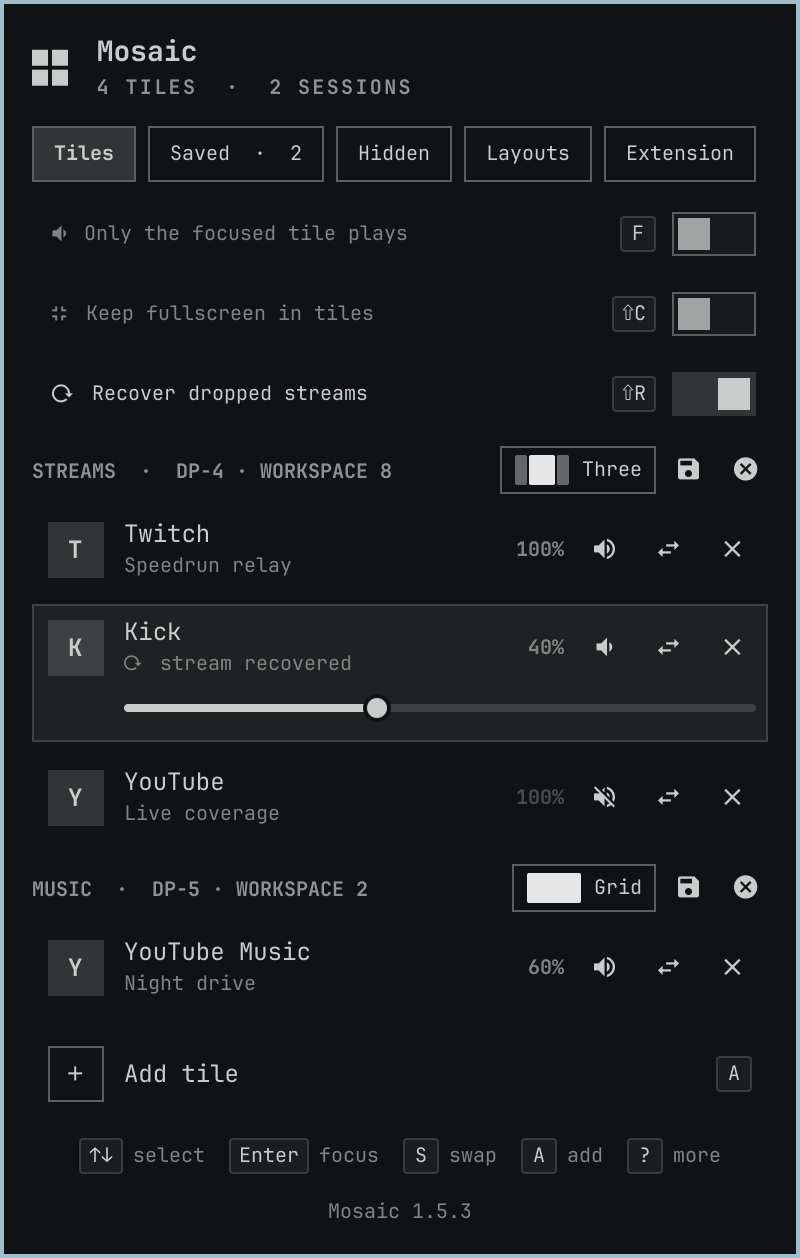
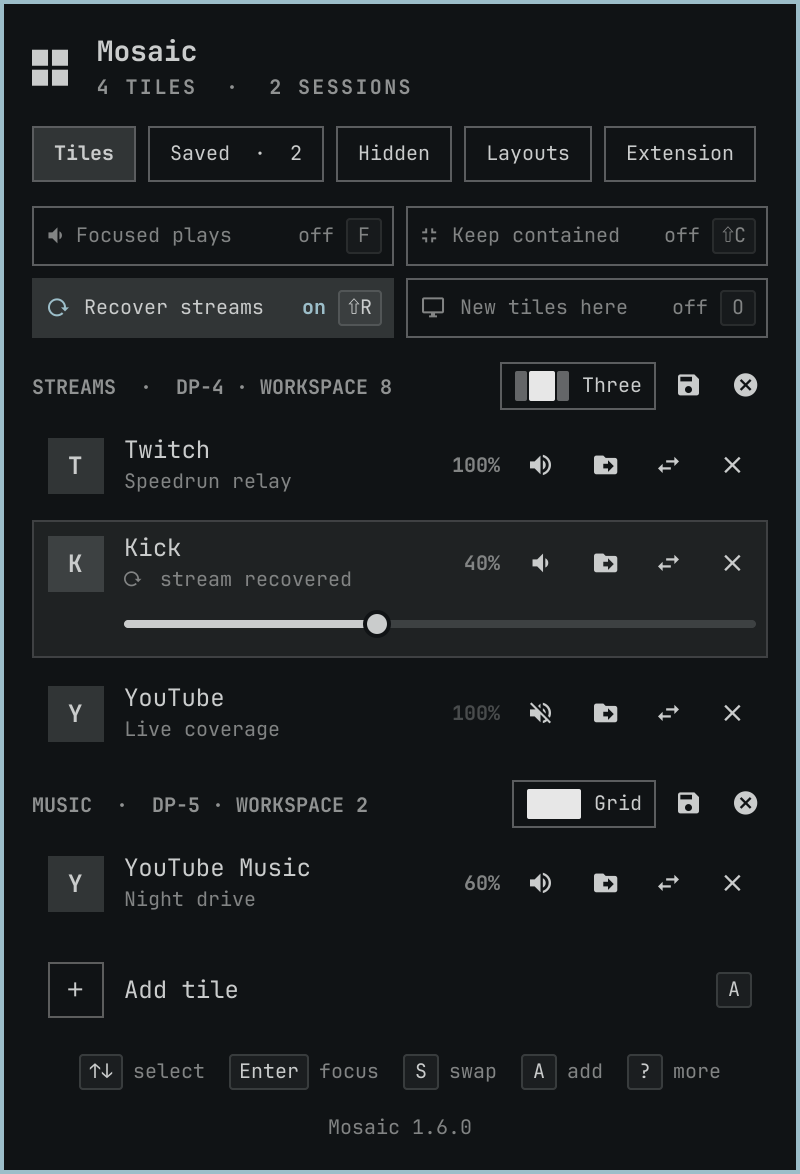
Release 1.6.0
New tiles can open on the focused workspace, tiles move between
sessions without reopening, and the panel's switches are a compact
labelled grid. The hero shows the new panel and version.

diff --git a/README.md b/README.md
@@ -1,6 +1,6 @@
 # <img src="icon.svg" alt="" width="32" height="32" align="top"> Mosaic
 
-![Mosaic: every stream in its place. On the right, a monitor shows workspace 8 in a three-zone layout: a wide Twitch tile in the middle whose video is fullscreen inside the tile, with Kick and a muted YouTube tile letterboxed beside it. In front, two offscreen renders of the Mosaic panel with sample tiles: the Tiles tab with two sessions, per-tile volume, a recovered stream and the audio, containment and recovery switches, and the Layouts tab with a layout per workspace and a custom "Three" layout](preview.png)
+![Mosaic: every stream in its place. On the right, a monitor shows workspace 8 in a three-zone layout: a wide Twitch tile in the middle whose video is fullscreen inside the tile, with Kick and a muted YouTube tile letterboxed beside it. In front, two offscreen renders of the Mosaic panel with sample tiles: the Tiles tab with two sessions, per-tile volume, a recovered stream and the audio, containment, recovery and "new tiles here" switches, and the Layouts tab with a layout per workspace and a custom "Three" layout](preview.png)
 
 **Twitch, Kick, YouTube and any other web app, tiled as a monitor-aware
 mosaic on Hyprland, where a video's fullscreen stays inside its tile.**
@@ -20,7 +20,8 @@ type any address.
 - **Fullscreen in its tile**: a video's fullscreen fills its tile, not the
   monitor, and Mosaic can put it back when something takes it away.
 - **A keyboard-first panel** in the Omarchy bar: sessions and their tiles;
-  add, focus, swap, reload and remove tiles; in your theme's colours.
+  add, focus, swap, reload and remove tiles, move them between sessions,
+  and open new ones on the workspace you're on; in your theme's colours.
 - **Swap a tile in place** with a card over the tile (`Super+Shift+S`):
   another web app or another address, same slot.
 - **Layouts per workspace**: Grid, Stack, Main + small, 16:9 fit, or your

diff --git a/CHANGELOG.md b/CHANGELOG.md
@@ -1,8 +1,8 @@
 # Changelog
 
-## Unreleased
+## 1.6.0 (2026-10-26)
 
-- **New tiles open on the focused workspace**: a switch on the Tiles tab
+- **New tiles open on the focused workspace**: a switch ("New tiles here") on the Tiles tab
   (O). With it on and no session typed, a new tile joins the session on
   the workspace you're on, or starts one there (`ws-10`), instead of going
   back to the workspace the selected tile's session is on. `mosaic add`
